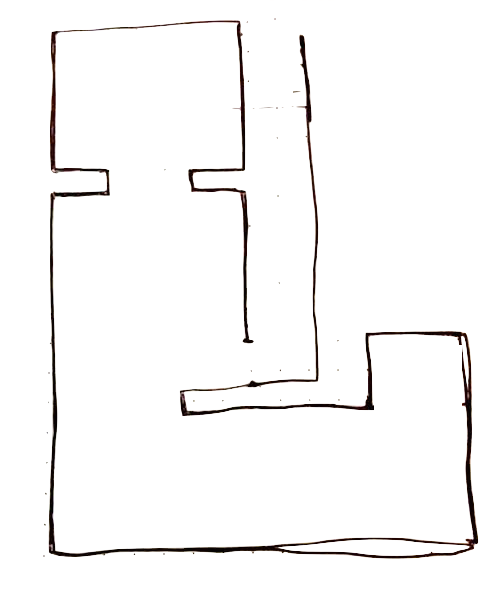
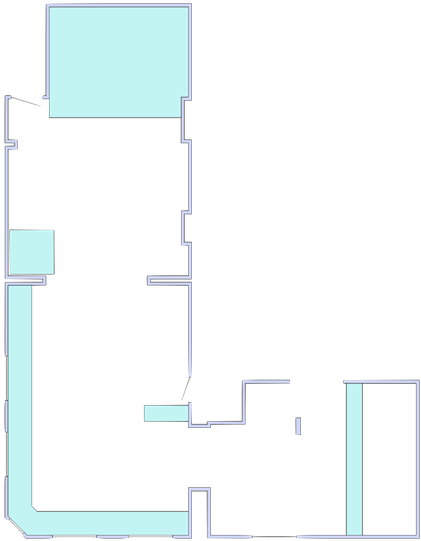
local coords

Changed region(s): [[0.0, 0.0, 1.0, 1.0], [0.5867, 0.0591, 0.6485, 0.2366], [0.6793, 0.7689, 0.7411, 0.7985]]

diff --git a/script.js b/script.js
@@ -1,6 +1,8 @@
 // This is all hacks
 // --------
 
+var transformProp = vendorCSSProp('transform');
+
 function htmlC(name){
   document.getElementsByTagName('html')[0].className = name
 }
@@ -20,14 +22,33 @@ function _content(html){
 // position within the space
 var x = 0.5, y = 0.5;
 
+function localCoords(from){
+  var mapBearing = 45,
+      mapScale = 0.017,
+      _x = (x-0.5)*-1, // flip the x because of something
+      _y = y-0.5,
+      bearing, distance;
+
+  bearing = Math.atan2(_x, _y);
+
+  if(bearing < 0) bearing += Math.PI*2;
+
+  bearing = (((bearing/Math.PI)*180) + mapBearing) % 360;
+
+  distance = Math.sqrt((_x*_x) + (_y*_y)) * mapScale;
+
+  // console.log(bearing, distance)
+
+  return from.destinationPoint(bearing, distance)
+}
 
 
 var locator = (function(){
   var element = document.getElementById('locator'),
       started;
 
-  var floor_width = 500,
-      floor_height = 589,
+  var floor_width = 421,
+      floor_height = 541,
       window_width = window.innerWidth,
       window_height = window.innerHeight;
 
@@ -41,6 +62,7 @@ var locator = (function(){
   function displayPosition(){
     var bx = (window_width*0.5) + ((x-0.5) * floor_width * -1) - (floor_width/2),
         by = (window_height*0.5) + ((y-0.5) * floor_height * -1) - (floor_height/2);
+    
 
     element.style.backgroundPosition = bx + 'px ' + by + 'px';
   }
@@ -61,7 +83,13 @@ var locator = (function(){
     if(ev.isFinal){
       x0 = x;
       y0 = y;
+
+      origin = localCoords(places.jt.coords);
     }
+
+    // uncomment to find local positions
+    // var ll = localCoords(places.jt.coords);
+    // console.log('new LatLon(%s,%s),', ll.lat.toPrecision(9), ll.lon.toPrecision(9))
   });
 
 
@@ -84,6 +112,7 @@ var locator = (function(){
       if(!active) return;
       active = false;
       element.className = '';
+      origin = localCoords(places.jt.coords);
     },
     toggle:function(){
       this[active ? 'stop' : 'start']();
@@ -99,18 +128,43 @@ var places = {
     coords: new LatLon(51.760161, -1.266465),
     name: "Jericho Tavern"
   },
+
   jt_bar: {
-    coords: (new LatLon(51.760161, -1.266465)).destinationPoint(330,0.005),
+    coords: new LatLon(51.7602440,-1.26647774),
     name: "The Bar"
   },
+  // doesn't seem accurate enough
+  // jt_bar_pump_left: {
+  //   coords: new LatLon(51.7602301,-1.26647203),
+  //   name: "The Bar - left pump"
+  // },
+  // jt_bar_pump_right: {
+  //   coords: new LatLon(51.7602419,-1.26645298),
+  //   name: "The Bar - right pump"
+  // },
   jt_centre: {
-    coords: (new LatLon(51.760161, -1.266465)).destinationPoint(80,0.002),
+    coords: new LatLon(51.7601654,-1.26637984),
     name: "JS Oxford"
   },
+  jt_corner: {
+    coords: new LatLon(51.7601633,-1.26631441),
+    name: "The corner"
+  },
+  jt_round_corner: {
+    coords: new LatLon(51.7602036,-1.26641366),
+    name: "People who can't see the stage" // round corner who make noise
+  },
+  jt_round_pillar: {
+    coords: new LatLon(51.7601567,-1.26643798),
+    name: "More people who can't see the stage" // on the right as you come in
+  },
   jt_stage: {
-    coords: (new LatLon(51.760161, -1.266465)).destinationPoint(225,0.010),
+    coords: new LatLon(51.7601072,-1.26650463),
     name: "Me"
   },
+
+
+
   st_clements: {
     coords: new LatLon(51.750794, -1.238725),
     name: "My House"
@@ -145,7 +199,7 @@ var places = {
   },
   jsac: {
     coords: new LatLon(51.476020, -3.17931),
-    name: "?"
+    name: "Super Secret Place" // it's cardiff! You're allowed to know, because you're reading this.
   }
 }
 
@@ -158,7 +212,11 @@ var origin = places.jt.coords,
 
 
 
-function display(place){ 
+function display(place, instant){
+  if(instant){
+    current = place.coords
+  }
+
   var t = new TWEEN.Tween( { lon: current.lon, lat: current.lat } )
     .to( place.coords, 3000 )
     .onStart( function(){
@@ -168,7 +226,7 @@ function display(place){
       var distance = origin.distanceTo(this);
       var bearing = origin.bearingTo(this) + offset_bearing;
       document.getElementById('place_distance').innerHTML = format_distance(distance);
-      document.getElementById('arrow').style.transform = 'rotate(' + bearing + 'deg)';
+      document.getElementById('arrow').style[transformProp] = 'rotate(' + bearing + 'deg)';
     })
     // .start();
 
@@ -501,5 +559,27 @@ function format_distance(km){
 }
 
 
+function vendorCSSProp (prop) {
+  var     vendorPrefixes = ['Moz','Webkit','O', 'ms']
+      ,   style     = document.createElement('div').style
+      ,   upper     = prop.charAt(0).toUpperCase() + prop.slice(1)
+      ,   pref, len = vendorPrefixes.length;
+
+  while (len--) {
+      if ((vendorPrefixes[len] + upper) in style) {
+          pref = (vendorPrefixes[len])
+      }
+  }
+  if (!pref && prop in style) {
+      pref = prop
+      return perf
+  }
+  if (pref) {
+      return pref + upper
+  }
+  return ''
+}
 
 
+
+// locator.start()

diff --git a/talk.js b/talk.js
@@ -45,6 +45,9 @@
   function body_className(className){
     body.className = className
   }
+  function body_css(prop, value){
+    body.style[prop] = value
+  }
 
 
 
@@ -72,6 +75,9 @@
 
   // Content
   function intro(talk){
+    talk.queue(function(){
+      body_className('')
+    })
 
     talk.slide('hello')
     talk.pause(20000)
@@ -82,31 +88,31 @@
     talk.pause(15000)
 
     talk.slide('title')
-    talk.pause(15000)
+    talk.pause(5000)
     talk.fragment()
-    talk.pause(20000)
+    talk.pause(30000)
 
     talk.slide('meta')
-    talk.pause(15000)
+    talk.pause(30000)
 
     talk.slide('sync-intro')
     talk.pause(15000)
 
     talk.slide('sync-web')
-    talk.pause(15000)
+    talk.pause(8000)
     talk.fragment()
-    talk.pause(5000)
+    talk.pause(4000)
     talk.fragment()
-    talk.pause(5000)
+    talk.pause(4000)
     talk.fragment()
     talk.pause(20000)
 
     talk.slide('sync-environment')
-    talk.pause(15000)
+    talk.pause(8000)
     talk.fragment()
-    talk.pause(5000)
+    talk.pause(10000)
     talk.fragment()
-    talk.pause(5000)
+    talk.pause(10000)
     talk.fragment()
     talk.pause(20000)
 
@@ -142,6 +148,10 @@
           bg(hsl_basic(this.h,1,0.3*stepper10(this.t)));
         })
     )
+
+    talk.queue(function(){
+      body_css('background','')
+    })
   }
 
   function locationIntro(talk){
@@ -174,29 +184,37 @@
   }
 
   function locationGeneral(talk){
-    // talk.queue(function(){
-    //   body_className('content-hidden map')
-    // })
+    talk.queue(function(){
+      body_className('content-hidden map')
+    })
 
-    // talk.pause(10000)
+    talk.pause(10000)
 
     talk.queue(function(){
       body_className('content-hidden map direction')
     })
 
-    talk.pause(10000)
+    talk.queue(display(places.pheonix, true))
+    talk.pause(6000)
 
-    talk.queue(display(places.pheonix))
+    talk.queue(display(places.pitt_rivers))
+    talk.pause(6000)
 
-    talk.pause(10000)
+    talk.queue(display(places.wo))
+    talk.pause(6000)
 
-    talk.queue(display(places.pri))
+    talk.queue(display(places.st_clements))
+    talk.pause(6000)
 
-    talk.pause(10000)
+    talk.queue(display(places.castle))
+    talk.pause(6000)
 
     talk.queue(display(places.big_ben))
+    talk.pause(6000)
 
-    talk.pause(10000)
+    talk.queue(display(places.jsac))
+    talk.pause(6000)
+
   }
 
   function inputLocation(talk){
@@ -205,7 +223,7 @@
       body_className('content-hidden')
     })
 
-    talk.pause(5000)
+    talk.pause(4000)
 
     talk.queue(function(){
       locator.start()
@@ -217,34 +235,43 @@
       locator.stop()
     })
 
-    talk.pause(5000)
+    talk.pause(4000)
 
   }
 
   function locationSpecific(talk){
-    // talk.queue(function(){
-    //   body_className('content-hidden map')
-    // })
-
-    // talk.pause(10000)
 
     talk.queue(function(){
       body_className('content-hidden xmap direction')
     })
 
-    talk.pause(10000)
+    talk.queue(display(places.jt, true))
+    talk.pause(6000)
 
     talk.queue(display(places.jt_bar))
+    talk.pause(6000)
 
-    talk.pause(10000)
+    // talk.queue(display(places.jt_bar_pump_left))
+    // talk.pause(6000)
+
+    // talk.queue(display(places.jt_bar_pump_right))
+    // talk.pause(6000)
 
     talk.queue(display(places.jt_centre))
+    talk.pause(6000)
 
-    talk.pause(10000)
+    talk.queue(display(places.jt_corner))
+    talk.pause(6000)
+
+    talk.queue(display(places.jt_round_corner))
+    talk.pause(6000)
+
+    talk.queue(display(places.jt_round_pillar))
+    talk.pause(6000)
 
     talk.queue(display(places.jt_stage))
+    talk.pause(6000)
 
-    talk.pause(10000)
 
   }
 

diff --git a/index.html b/index.html
@@ -18,7 +18,7 @@
   <meta name="apple-mobile-web-app-capable" content="yes">
   <meta name="mobile-web-app-capable" content="yes">
 </head>
-<body class="">
+<body>
 
   <div id="locator">
     <!-- <img id="floorplan" src="floorplan.jpg"> -->
